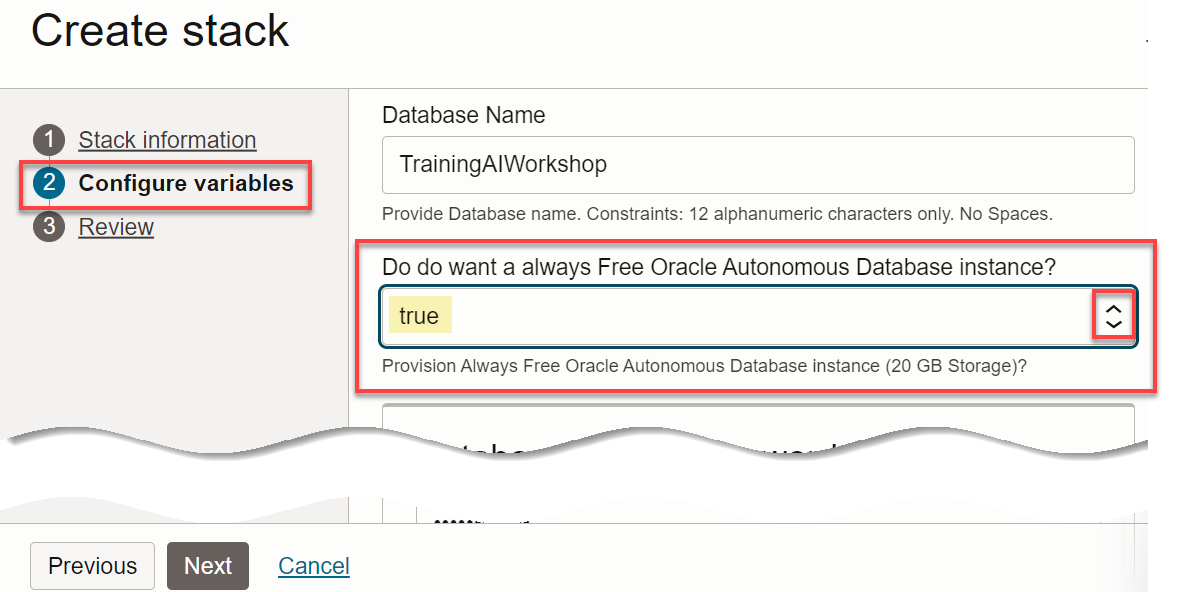
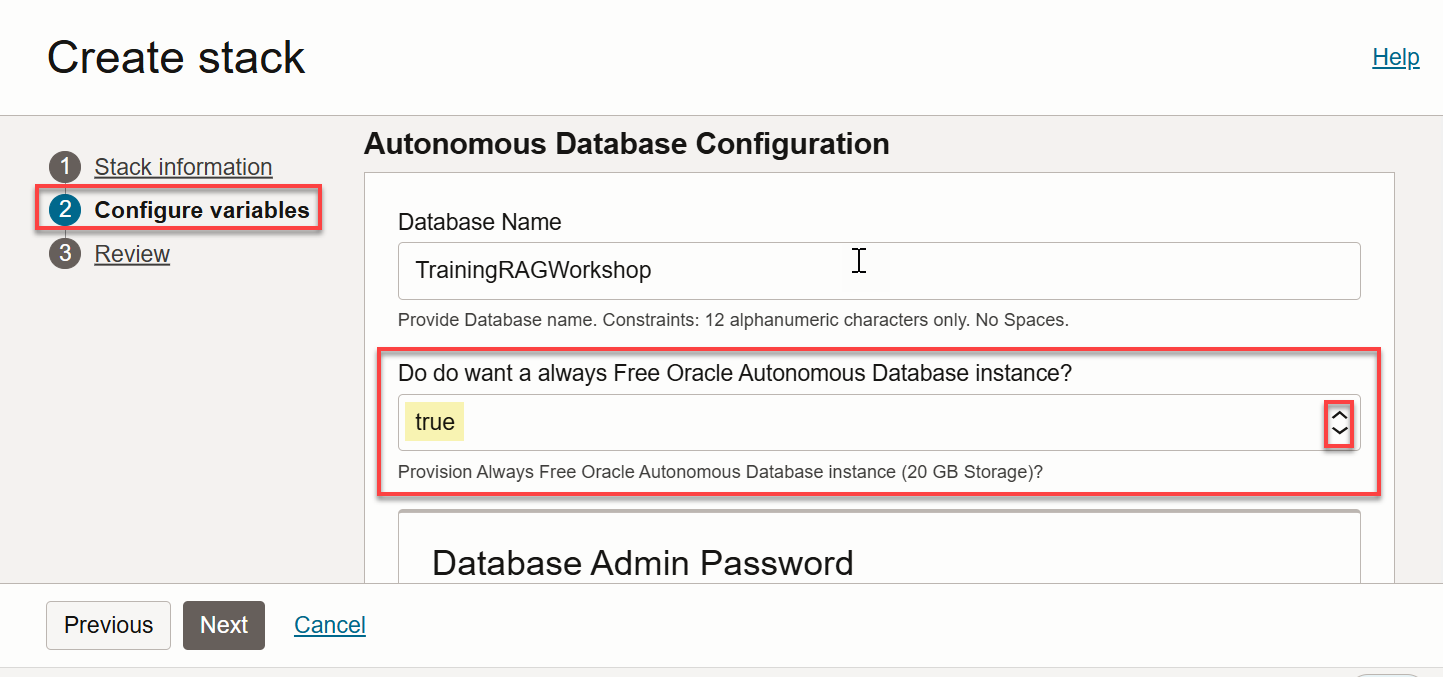
update to new workshop

diff --git a/shared/develop-rag-apps/query-using-select-ai/query-using-select-ai.md b/shared/develop-rag-apps/query-using-select-ai/query-using-select-ai.md
@@ -143,106 +143,6 @@ Let's look at a couple of examples:
 
 _**In summary, using LLMs infer a lot from human language. It's always good to verify your results.**_
 
-## Task 2: Access Oracle Machine Learning (OML) Notebooks
-
-You can import, create, and work with notebooks in Oracle Machine Learning Notebooks. You can access Oracle Machine Learning Notebooks from Autonomous Database.
-
->**Note:** You can run **`Select AI`** SQL queries from most tools; however, it is not yet supported by the **SQL Worksheet**.
-
-![Click the banner](./images/click-banner.png " ")
-
-If you are no longer logged in to your Cloud account, start with **step 1** below. If you are still connected to your SQL Worksheet as the **`moviestream`** user from an earlier lab, sign out of this user and sign in as the **`ADMIN`** user using the drop-down list next to the user name in the banner.
-
-1. Log in to the **Oracle Cloud Console** as the Cloud Administrator.
-
-    >**Note:** To access **Database Actions** from the Console, you must log in as an **`ADMIN`** user.
-
-2. On the **Sign In** page, select your tenancy, enter your username and password, and then click **Sign In**. The **Oracle Cloud Console** Home page is displayed.
-
-3. Open the **Navigation** menu and click **Oracle Database**. Under **Oracle Database**, click **Autonomous Database**.
-
-4. On the **Autonomous Databases** page, make sure that the **`your-compartment`** is selected in the **Compartment** drop-down list in the **List Scope** section, and then click your ADB instance that you provisioned earlier.
-
-5. On the **Autonomous Database Details** page, click the **Database Actions** drop-down list, and then select **View all database actions** from the list.
-
-   ![Select view all database actions](./images/view-all-database-actions.png " ")
-
-6. On the **Database Actions | Launchpad** page, click the **Development** tab, and then click the **Oracle Machine Learning** tab.
-
-    ![Click the Oracle Machine Learning card](./images/oml-tab.png " ")
-
-7. On the **SIGN IN** page, enter **`moviestream`** in the **Username** field, the **`adb_user_password`** that you saved in **Lab 1 > Task 2 > Step 6** in the **Password** field, and then click **Sign In**.
-
-    ![Enter credentials on the Sign In page](./images/oml-sign-in.png " ")
-
-    The **Oracle Machine Learning** Home page is displayed. You can use this landing page to access tutorials, model creation, notebooks, and much more.
-
-    ![Oracle Machine Learning Home page is displayed.](./images/oml-home-page-new.png " ")
-
-8. In the **Quick Actions** section, click the **Notebooks** icon. The **Notebooks** page is displayed.
-
-    ![The Notebooks page is displayed](./images/notebooks-page-displayed.png " ")
-
-## Task 3: Import a Notebook into OML
-
-You can import a notebook from a local disk or from a remote location if you provide the URL. A notebook named **adb-speaks-human-notebook** contains all the steps for setting up the **Select AI** profile and then run natural language queries. In this task, you will first download the **`adb-speaks-human-notebook.dsnb`** OML notebook to your local machine, and then import this notebook into OML.
-
-1. Click the button below to download the notebook:
-
-    <a href="../notebook/adb-speaks-human-notebook.dsnb" class="tryit-button">Download notebook</a>
-
-2. Click **Import**. The **Open** dialog box is displayed. Navigate to your local folder where you downloaded the OML notebook, and select the **`adb-speaks-human-notebook.dsnb`** notebook file. The file is displayed in the **File name** field. Make sure that the **Custom Files (*.dsnb;\*.ipynb;\*.json;\*.zpln)** type is selected in the second drop-down field, and then click **Open**.
-
-    ![The Open dialog box is displayed](./images/open-imported-notebook.png " ")
-
-    If the import is successful, a notification is displayed and the **`adb-speaks-human-notebook`** notebook is displayed in the list of available notebooks.
-
-    ![The newly imported notebook is displayed.](./images/import-successful.png " ")
-
-3. Open the imported notebook. Click the notebook's name link. The notebook is displayed in the Notebook **Editor**. Read the paragraphs in this notebook.
-
-     >**Note:** If a **User Action Required** message is displayed when you open the notebook, click **Allow Run**.
-
-## Task 4: Review and Run the Imported Notebook
-
-A notebook is comprised of paragraphs that use different languages: SQL, PL/SQL, Python, R, markdown and more. The **ADB Speaks Human** notebook is well-documented using markdown code. Examine the paragraphs in the notebook and then execute the code. Feel free to run different types of queries!
-
-1. In this notebook, the code sections of all paragraphs in the notebook are displayed. We already ran all the markdown paragraphs and the results (outputs) are displayed. To show or hide the code sections in all the paragraphs, on the notebook's banner, click the **Show Code** icon. This is a toggle icon that you can use to show or hide the code in all paragraphs.
-
-    ![Select Show Code from the Actions drop-down menu](./images/show-code.png =75%x*)
-
-    For example, paragraph 1 uses the **`%md`** (Markdown) interpreter.
-
-    ![A paragraph with the markdown interpreter](./images/code-displayed.png =75%x*)
-
-    In this notebook, the **`%md`** (Markdown) paragraphs provide useful information about the paragraphs. The **`%md`** Markdown interpreter generates static html from plain Markdown text. In this lab, you will review the code in each paragraph one at a time, run that paragraph, and review the results as desired. It is a good idea to hide the code of any .md paragraph.
-
-2. By default, when you imported the notebook, the results (output) sections of the .md paragraphs were run and displayed. On the notebook banner, click the **Show Result/Hide Result** icon to show the output sections of the paragraphs where the output section is not shown by default.
-
-    ![The Show/hide the output icon on the notebook toolbar is shown as clicked.](./images/show-result.png " ")
-
-    The output section of each paragraph is displayed.
-
-3. Hide the code sections for the **`%md`** paragraphs. Click the **Visibility** icon in a paragraph, and then select the checked **Code** checkbox.
-
-    ![The Code checkbox is selected for the paragraph](./images/hide-code.png " ")
-
-    The code sections are hidden. It is good practice to hide the code section of a **`%md`** paragraph since you are only interested in looking at the formatted output.
-
-4. To run a paragraph, click the **Run Paragraph** icon for the paragraph.
-
-    ![To run a paragraph, click the Run icon for the paragraph](./images/run-paragraph.png " ")
-
-    >**Note:** If the status of one or more paragraphs shows **ERROR**, reset your notebook connection using the **Invalidate Session** icon in the banner, and then re-run the notebook.
-
-    ![Invalidate the session.](./images/invalidate-session.png =60%x*)
-
-5. Examine, run, and review the output of the remaining paragraphs, as desired. To run the entire notebook, click the **Run Paragraphs** icon on the notebook banner. A **Run all paragraphs** confirmation message box is displayed. Click **Confirm**.
-
-  ![Run all paragraphs](images/run-all-paragraph.png)
-
-The results of the code execution is displayed under the paragraph code. For query result sets, you can view the data as a table or a variety of chart types.
-
 You may now proceed to the next lab.
 
 ## Learn More
@@ -253,13 +153,15 @@ You may now proceed to the next lab.
 
 ## Acknowledgements
 
-* **Author:** Lauran K. Serhal, Consulting User Assistance Developer
+* **Authors:**
+    * Marty Gubar, Product Management
+    * Lauran K. Serhal, Consulting User Assistance Developer
 * **Contributor:** Marty Gubar, Product Manager
-* **Last Updated By/Date:** Lauran K. Serhal, December 2024
+* **Last Updated By/Date:** Lauran K. Serhal, February 2025
 
 Data about movies in this workshop were sourced from **Wikipedia**.
 
-Copyright (c) 2024 Oracle Corporation.
+Copyright (c) 2025 Oracle Corporation.
 
 Permission is granted to copy, distribute and/or modify this document
 under the terms of the GNU Free Documentation License, Version 1.3

diff --git a/shared/develop-rag-apps/integrate-genai/integrate-genai.md b/shared/develop-rag-apps/integrate-genai/integrate-genai.md
@@ -69,10 +69,11 @@ In this lab, you will:
 ## Task 2: Connect Autonomous Database to an AI Provider, Create an AI Profile, and a Vector Index
 
 ### Background
-There are 3 things to do in order to connect Autonomous Database to an AI provider:
-1. Grant the **`MOVIESTREAM`** user network access to the AI provider endpoint
+There are 4 things to do in order to connect Autonomous Database to an AI provider:
+1. Grant the **`MOVIESTREAM`** user network access to the AI provider endpoint (already done for you)
 2. Create a credential containing the secret used to sign requests to the AI provider
-3. Create a Select AI profile (see below for more details) 
+3. Create a Select AI profile (see below for more details)
+4. Create a Vector index (see below for more details)
 
 >**Note:** All of these steps have already been done for accessing OCI GenAI when you deployed your Autonomous Database. You can review the deployment steps below. You will need to execute these steps when connecting to non-Oracle AI providers.
 
@@ -87,54 +88,117 @@ You can create as many profiles as you need, which is useful when comparing the 
 
 For a complete list of the Select AI profile attributes, see the [DBMS\_CLOUD\_AI\_Package] (https://docs.oracle.com/en/cloud/paas/autonomous-database/serverless/adbsb/dbms-cloud-ai-package.html#GUID-D51B04DE-233B-48A2-BBFA-3AAB18D8C35C) in the Using Oracle Autonomous Database Serverless documentation. 
 
-
 ### **Connect to one of the following AI providers using each provider's default model**:
+
+>**Note:** In this workshop, we are using the OCI GenAI as the LLM in our examples.
 
 <details>
     <summary>**OCI Generative AI** (default)</summary>
 
-1. Grant the **`MOVIESTREAM`** user network access to the endpoint.
-
-    **Note:** This is not required when using **OCI GenAI**
-
-2. Create a credential as follows:
-
-    The workshop deployment step already set up a resource principal for your database and enabled the **`MOVIESTREAM`** user to use that principal (for more information, see [Use Resource Principal to Access Oracle Cloud Infrastructure Resources](https://docs.oracle.com/en/cloud/paas/autonomous-database/serverless/adbsb/resource-principal.html#GUID-E283804C-F266-4DFB-A9CF-B098A21E496A)). This means that the ADB resource (i.e. your ADB instance) needs access to OCI Generative AI. The OCI policy you created in the previous lab authorized that access.
-
-3. Create a Select AI profile.
+1. Copy and paste the following code into your SQL Worksheet, and then click the **Run Script** icon in the toolbar.
 
     ```sql
     <copy>
-    begin    
-        -- Drop the profile in case it already exists
-        dbms_cloud_ai.drop_profile(
-            profile_name => 'genai',
-            force => true
-        );    
 
-        -- Create an AI profile that uses the default LLAMA model on OCI
-        dbms_cloud_ai.create_profile(
-            profile_name => 'genai',
-            attributes =>       
-                '{"provider": "oci",
-                "credential_name": "OCI$RESOURCE_PRINCIPAL",
-                "comments":"true",            
-                "object_list": [
-                    {"owner": "MOVIESTREAM", "name": "GENRE"},
-                    {"owner": "MOVIESTREAM", "name": "CUSTOMER"},
-                    {"owner": "MOVIESTREAM", "name": "PIZZA_SHOP"},
-                    {"owner": "MOVIESTREAM", "name": "STREAMS"},            
-                    {"owner": "MOVIESTREAM", "name": "MOVIES"},
-                    {"owner": "MOVIESTREAM", "name": "ACTORS"}
-                ]
-                }'
-            );
-            
-    end;
+    -- Use resource principal
+    -- This policy allows access: allow any-user to manage
+    -- generative-ai-family in the tenancy as ADMIN
+
+    -- The following is already done for you in this workshop.
+    -- exec dbms_cloud_admin.enable_resource_principal(username  => 'MOVIESTREAM');
+
+    -- As MOVIESTREAM
+    -- Here is the web site:
+    -- https://objectstorage.us-ashburn-1.oraclecloud.com/n/c4u04/b/building_blocks_utilities/o/support-site/index.html
+
+    /* REVIEW */
+    -- Look at the files on object store
+    -- Review the file list that comprise the support web site
+    SELECT object_name, bytes 
+    FROM dbms_cloud.list_objects(
+        credential_name => 'OCI$RESOURCE_PRINCIPAL',
+        location_uri => 'https://objectstorage.us-ashburn-1.oraclecloud.com/n/c4u04/b/building_blocks_utilities/o/support-site/'
+    );
+
+    /* RESET */
+    -- delete profiles / vector indexes in case they exist
+    BEGIN  
+    -- AI profile
+    dbms_cloud_ai.drop_profile(
+            profile_name => 'SUPPORT_SITE',
+            force => true
+    );           
+    -- Vector index
+    dbms_cloud_ai.drop_vector_index (
+        index_name => 'SUPPORT',
+        force => true
+    );                                                                 
+
+    END;
     /
+
+    /* CREATE */
+    -- create the profile and index
+    BEGIN  
+    -- create the ai profile. It will use the support vector to answer questions
+    dbms_cloud_ai.create_profile (
+        profile_name => 'SUPPORT_SITE',
+        attributes => 
+            '{
+            "provider": "oci",        
+            "credential_name": "OCI$RESOURCE_PRINCIPAL",              
+            "vector_index_name": "SUPPORT"
+            }'      
+    );  
+
+    -- Create a vector index that points to the object storage location
+    -- that contains the website files. This will create a pipeline
+    -- that loads the index and keeps it up to date
+
+    dbms_cloud_ai.create_vector_index(
+        index_name  => 'SUPPORT',
+        attributes  => '{"vector_db_provider": "oracle",
+                        "object_storage_credential_name": "OCI$RESOURCE_PRINCIPAL",
+                        "location": "https://objectstorage.us-ashburn-1.oraclecloud.com/n/c4u04/b/building_blocks_utilities/o/support-site/",
+                        "profile_name": "SUPPORT_SITE",
+                        "vector_table_name":"support_site_vector",
+                        "vector_distance_metric": "cosine"
+                    }'
+        );                                       
+    END;                                                                           
+    /  
+
+    /* PIPELINE */
+    -- A pipeline was created and you can see it here. The pipeline runs
+    -- periodically to update the vectors.
+    -- Check out the status table to see progress/details
+    SELECT pipeline_id, pipeline_name, status, last_execution, status_table
+    FROM user_cloud_pipelines;
+
+    SELECT * 
+    FROM user_cloud_pipeline_attributes;
+
+    SELECT * 
+    FROM user_cloud_pipeline_history;
+
+    /* VECTOR TABLE */
+    -- Review the generated table that has the chunks and vector embedding
+    SELECT * FROM support_site_vector;
+
+    /* QUERY */
+    SELECT
+    dbms_cloud_ai.generate (
+        profile_name => 'SUPPORT_SITE',
+        action => 'narrate',
+        prompt => 'George Clooney lips are moving but I can not hear him'
+    ) as support_question;  
     </copy>
     ```
-</details>
+    ![The output is displayed in the Script Output tab.](./images/genai-output-rag.png " ")
+
+    ![The output is displayed in the Script Output tab.](./images/genai-output-rag-query.png " ")
+    </details>
+
 
 <details>
     <summary>**OpenAI**</summary>

diff --git a/shared/develop-rag-apps/use-select-ai-demo/use-select-ai-demo.md b/shared/develop-rag-apps/use-select-ai-demo/use-select-ai-demo.md
@@ -31,15 +31,17 @@ In this lab, you will:
 
     ![Enter ChatDB credentials](./images/ai-select-credentials.png =70%x*)
 
-2. On the **ChatDB** page, select a profile that you want to use from the **Service** drop-down list. In this workshop, select the **`OPENAI_GPT35`** profile that was created in the **Create credential and AI profile** paragraph in the notebook that you imported in the **Lab 3**.
+2. On the **ChatDB** page, the **AI Settings** panel is displayed. Select a profile that you want to use from the **Service** drop-down list. In this workshop, select the **`GENAI`** profile that was created in the **Lab 2** when you ran the script.
 
-    ![Select AI profile](./images/select-profile.png =70%x*)
+    ![Select AI profile](./images/select-profile-rag.png =70%x*)
 
     The ChatDB application is displayed. You are now ready to ask questions at the **Ask a question** prompt!
 
     ![Select AI application displayed](./images/select-ai-application.png =70%x*)
 
 ## Task 2: Ask Natural Language and Database Questions Using the Application
+
+1. 
 
 You can use this application to ask the following types of questions:
 
@@ -59,19 +61,19 @@ _Select the **Ask Database** checkbox_ to ask questions about your business data
   ![Create profile diagram](./images/create-profile-diagram.png " ")
 --->
 
-Let's experiment a bit with both general data from the `internet` and also from the `moviestream` tables in the database.
+Let's experiment a bit with both general data from the `internet` and also from the `moviestream` support site.
 
-1. Let's find out how to make french toast. Enter your question using a free form format in the **Ask a Question** text box, and make sure that the **Ask Database** checkbox is not checked since this is a general internet question that will be handled by your LLM provider. Next, click the **Run** icon, or press **[ENTER]**.
+1. Enter your question using a free form format in the **Ask a Question** text box such as `My movie is frozen on the opening scene`, and make sure that the **Ask Database** checkbox is not checked since this is a general internet question that will be handled by your LLM provider. Next, click the **Run** icon, or press **[ENTER]**.
 
     >**Note:** You can type your own natural language question. You don't have to use the exact question that we show in our examples.
 
-    ![How to make french toast question](./images/french-toast-question.png =70%x*)
+    ![Prompt 1: frozen movie](./images/frozen-movie-prompt-1.png =70%x*)
 
-    A French toast recipe is displayed.
+    The suggested answers from the support site and the internet are displayed.
 
-   ![How to make french toast answer](./images/french-toast-answer.png =70%x*)
+   ![Prompt 1 answer](./images/prompt-1-answer.png =70%x*)
 
-2. Let's find out the top 10 streamed movies in the moviestream company. Enter your question using a free form format in the **Ask a Question** text box, and select the **Ask Database** checkbox since this is a question about the moviestream data. Next, press **[ENTER]**.
+2. Let's ask another question. In the **Ask a Question** text box: `George Clooney’s lips are moving but I cant hear him`find out the top 10 streamed movies in the moviestream company. Enter your question using a free form format in the **Ask a Question** text box, and select the **Ask Database** checkbox since this is a question about the moviestream data. Next, press **[ENTER]**.
 
     ![Top 10 streamed movies](./images/top-10-movies.png =70%x*)
 
